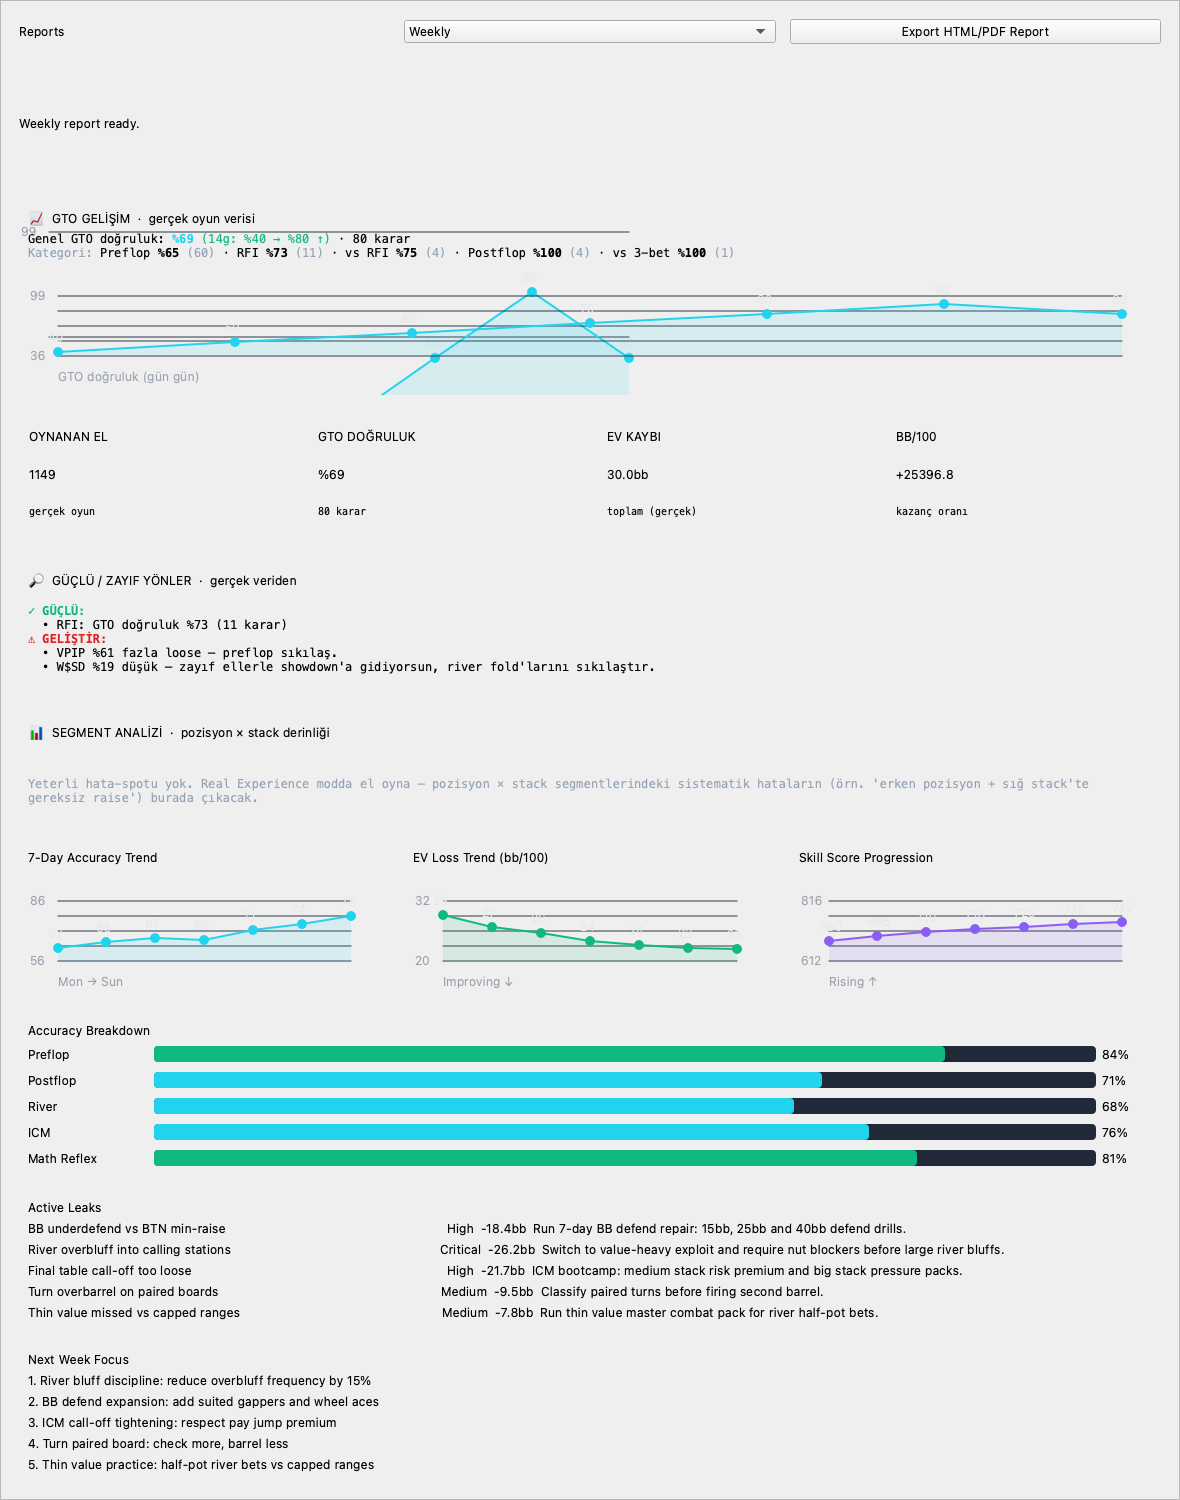
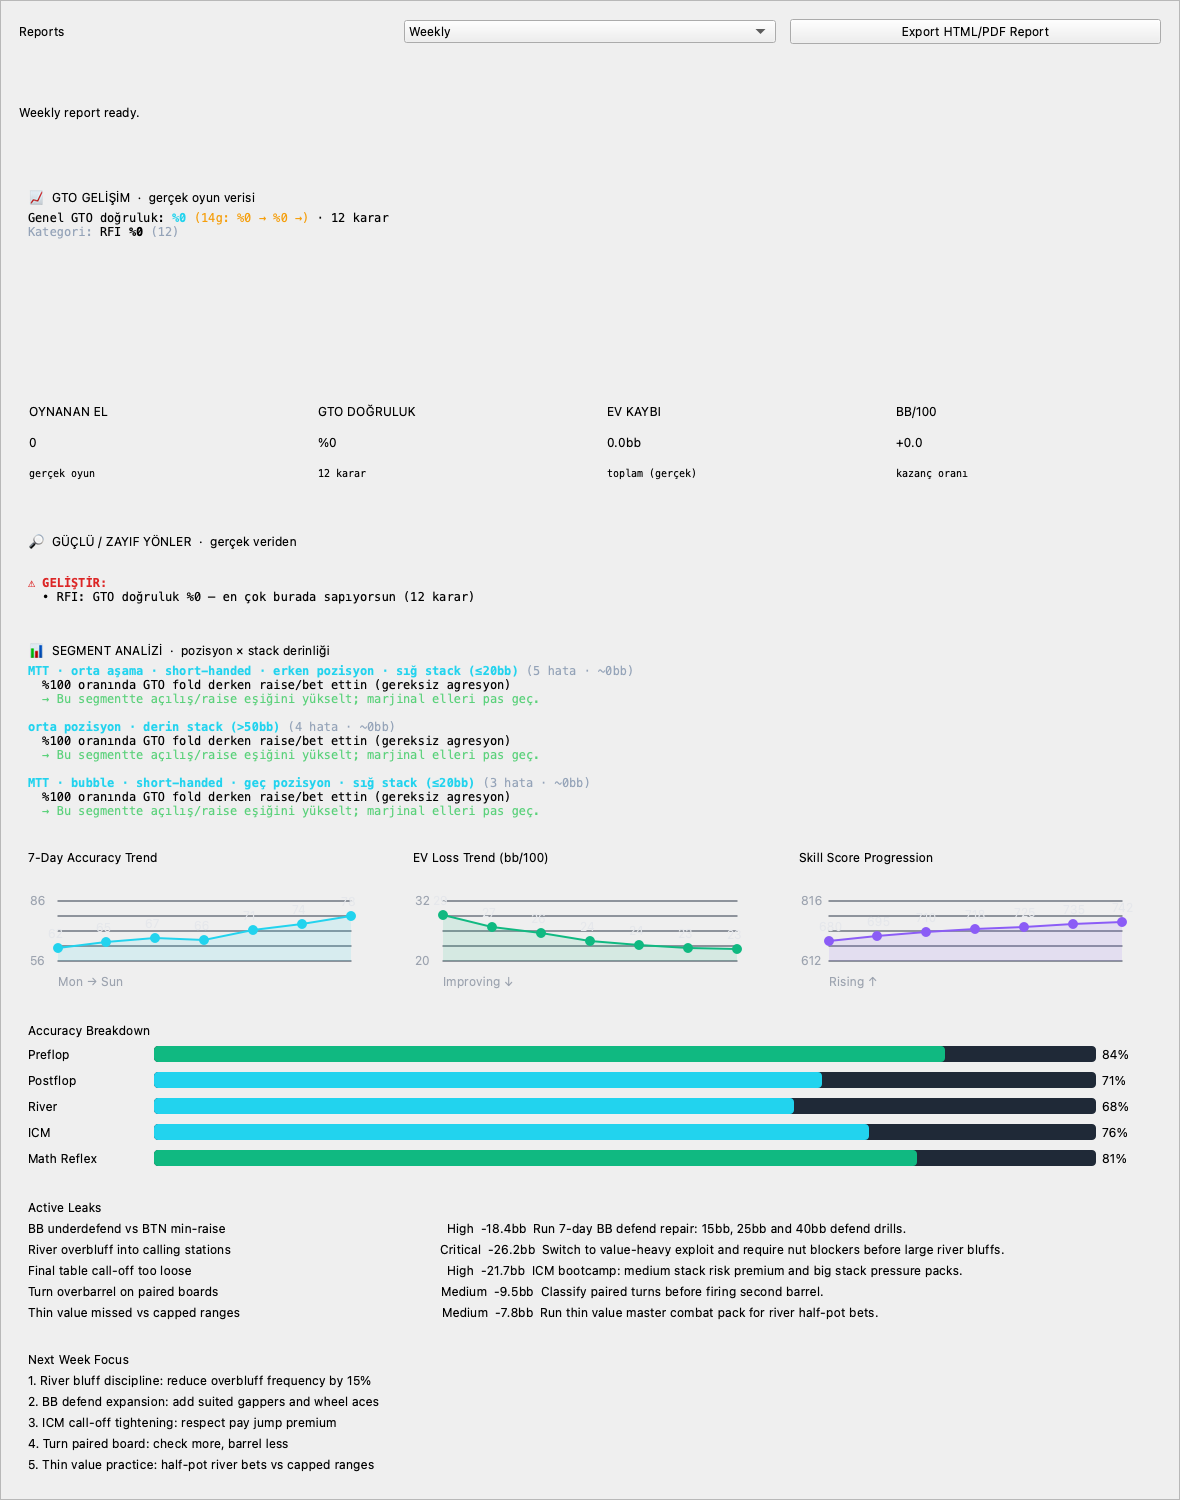
D34: Segment analizi — format × aşama × masa × pozisyon × stack
Segment analizine üç yeni boyut: oyun formatı (cash/MTT/SNG),
turnuva aşaması (erken/orta/geç/bubble/final masa) ve masa boyutu
(HU/short-handed/full-ring). Kullanıcının tam örneği artık gerçek
veriden üretiliyor:

  "MTT · orta aşama · short-handed · erken pozisyon · sığ stack
   (≤20bb): %100 oranında GTO fold derken raise ettin
   → açılış eşiğini yükselt, marjinal elleri pas geç"

- decision_capture.make_snapshot/capture: fmt + stage parametreleri
- play_session: cash/mtt snap'lerine format + _mtt_stage() enjekte
- tournament_simulator: _tourn_stage() (kalan oyuncu oranı + bubble/FT)
- repository.mistake_spots: format/stage kolonları + migration (ALTER)
- get_segmented_insights: 5-boyutlu segment key + akıllı etiket
  (cash/full-ring/bilinmeyen-aşama default'ları gizlenir)
- reports.py: başlık güncellendi, EV-kaybı sadece anlamlıysa gösterilir
  (preflop open'larda yanıltıcı ~0bb yok)
- tests: MTT stage etiketi + cash default-gizleme (18 test geçiyor)

diff --git a/champion_poker_training_os/app/db/repository.py b/champion_poker_training_os/app/db/repository.py
@@ -275,7 +275,14 @@ def _ensure_mistake_table() -> None:
                 board TEXT, hero_cards TEXT, hero_position TEXT,
                 n_active INTEGER, pot_bb REAL, to_call_bb REAL, eff_stack_bb REAL,
                 pot_type TEXT, hero_action TEXT, best_action TEXT,
-                ev_loss REAL, freq_err REAL )""")
+                ev_loss REAL, freq_err REAL,
+                format TEXT, stage TEXT )""")
+        # Eski tablolar için migration (format/stage sonradan eklendi)
+        cols = {r["name"] for r in conn.execute("PRAGMA table_info(mistake_spots)")}
+        if "format" not in cols:
+            conn.execute("ALTER TABLE mistake_spots ADD COLUMN format TEXT")
+        if "stage" not in cols:
+            conn.execute("ALTER TABLE mistake_spots ADD COLUMN stage TEXT")
         conn.commit()
 
 
@@ -285,8 +292,8 @@ def _save_mistake_spot(conn, snap: dict, best: str, ev: float,
         """INSERT INTO mistake_spots
            (category, street, scenario, board, hero_cards, hero_position,
             n_active, pot_bb, to_call_bb, eff_stack_bb, pot_type,
-            hero_action, best_action, ev_loss, freq_err, created_at)
-           VALUES (?,?,?,?,?,?,?,?,?,?,?,?,?,?,?, datetime('now'))""",
+            hero_action, best_action, ev_loss, freq_err, format, stage, created_at)
+           VALUES (?,?,?,?,?,?,?,?,?,?,?,?,?,?,?,?,?, datetime('now'))""",
         (
             cat, snap.get("street", ""), snap.get("scenario", ""),
             snap.get("board", ""),
@@ -295,6 +302,7 @@ def _save_mistake_spot(conn, snap: dict, best: str, ev: float,
             float(snap.get("pot_bb", 0) or 0), float(snap.get("to_call_bb", 0) or 0),
             float(snap.get("eff_stack_bb", 0) or 0), snap.get("pot_type", "SRP"),
             snap.get("hero_action", ""), best, float(ev or 0), float(fe or 0),
+            (snap.get("format") or "").lower(), snap.get("stage") or "",
         ),
     )
 
@@ -385,29 +393,71 @@ def _stack_bucket(eff: float) -> str:
     return "derin stack (>50bb)"
 
 
-def get_segmented_insights(min_sample: int = 3) -> list:
-    """Pozisyon × stack-derinliği segmentlerinde sistematik hatalar.
+def _table_bucket(n: int) -> str:
+    """Oyuncu sayısı → masa formatı. Full-ring (7+) "default" sayılıp
+    etikette gizlenir; HU ve short-handed bilgi taşır."""
+    n = int(n or 2)
+    if n <= 2:
+        return "HU"
+    if n <= 6:
+        return "short-handed"
+    return ""          # full-ring (7+) → etikette gösterme
 
-    "MTT'de short-stack'e düşünce erken pozisyonda marjinal raise" gibi
-    içgörüler — gerçek mistake_spots verisinden. [{segment, n, ev_lost,
-    pattern, tip}] EV-kaybı yüksekten düşüğe. Veri yoksa [].
+
+def _fmt_label(fmt: str) -> str:
+    return {"mtt": "MTT", "sng": "SNG", "cash": ""}.get((fmt or "").lower(), "")
+
+
+def _segment_label(fmt: str, stage: str, table: str,
+                   pos_b: str, stk_b: str) -> str:
+    """Anlamlı boyutları sırayla birleştir: format · aşama · masa · poz · stack.
+    'cash'/full-ring/bilinmeyen-aşama gibi default'lar gizlenir."""
+    parts: list[str] = []
+    fl = _fmt_label(fmt)
+    if fl:
+        parts.append(fl)
+    st = (stage or "").strip()
+    if st and st.lower() not in ("", "unknown", "-", "none"):
+        parts.append(st)
+    if table:
+        parts.append(table)
+    parts.append(pos_b)
+    parts.append(stk_b)
+    return " · ".join(parts)
+
+
+def get_segmented_insights(min_sample: int = 3) -> list:
+    """Format × turnuva-aşaması × masa × pozisyon × stack segmentlerinde
+    sistematik hatalar.
+
+    "MTT'de orta aşamada short-stack'e düşünce erken pozisyonda marjinal
+    raise" gibi içgörüler — gerçek mistake_spots verisinden.
+    [{segment, n, ev_lost, pattern, tip}] EV-kaybı yüksekten düşüğe.
+    Veri yoksa [].
     """
     _ensure_mistake_table()
     with get_connection() as conn:
         try:
             rows = [dict(r) for r in conn.execute(
-                "SELECT hero_position, eff_stack_bb, best_action, hero_action, "
-                "ev_loss, scenario FROM mistake_spots").fetchall()]
+                "SELECT hero_position, eff_stack_bb, n_active, best_action, "
+                "hero_action, ev_loss, scenario, format, stage "
+                "FROM mistake_spots").fetchall()]
         except sqlite3.OperationalError:
             return []
     from collections import defaultdict
-    seg: dict = defaultdict(lambda: {"n": 0, "ev": 0.0, "over_raise": 0, "over_fold": 0})
+    seg: dict = defaultdict(lambda: {"n": 0, "ev": 0.0, "over_raise": 0,
+                                     "over_fold": 0, "label": ""})
     for r in rows:
-        key = (_pos_bucket(r.get("hero_position")),
-               _stack_bucket(float(r.get("eff_stack_bb") or 0)))
+        pos_b = _pos_bucket(r.get("hero_position"))
+        stk_b = _stack_bucket(float(r.get("eff_stack_bb") or 0))
+        tbl = _table_bucket(r.get("n_active"))
+        fmt = r.get("format") or ""
+        stage = r.get("stage") or ""
+        key = (fmt.lower(), stage, tbl, pos_b, stk_b)
         s = seg[key]
         s["n"] += 1
         s["ev"] += float(r.get("ev_loss") or 0)
+        s["label"] = _segment_label(fmt, stage, tbl, pos_b, stk_b)
         ha = (r.get("hero_action") or "").upper()
         ba = (r.get("best_action") or "").upper()
         if ha in ("RAISE", "BET", "ALL_IN") and ba == "FOLD":
@@ -415,7 +465,7 @@ def get_segmented_insights(min_sample: int = 3) -> list:
         elif ha == "FOLD" and ba in ("RAISE", "BET", "CALL", "ALL_IN"):
             s["over_fold"] += 1
     out = []
-    for (pos_b, stk_b), s in seg.items():
+    for key, s in seg.items():
         if s["n"] < min_sample:
             continue
         if s["over_raise"] >= s["over_fold"] and s["over_raise"] > 0:
@@ -430,7 +480,7 @@ def get_segmented_insights(min_sample: int = 3) -> list:
             pattern = "karışık sapmalar"
             tip = "El sonu reveal'da bu segment kararlarını incele."
         out.append({
-            "segment": f"{pos_b} · {stk_b}",
+            "segment": s["label"],
             "n": s["n"], "ev_lost": round(s["ev"], 1),
             "pattern": pattern, "tip": tip,
         })

diff --git a/champion_poker_training_os/tests/test_decision_leaks.py b/champion_poker_training_os/tests/test_decision_leaks.py
@@ -199,3 +199,40 @@ def test_segmented_insights_early_short_overraise(isolated_db):
 
 def test_segmented_insights_empty(isolated_db):
     assert isolated_db.get_segmented_insights() == []
+
+
+def test_segmented_insights_mtt_stage_label(isolated_db):
+    """MTT · aşama · masa boyutu etiket dimensiyonları."""
+    R = isolated_db
+    for _ in range(4):
+        R.record_decision_log([{
+            "available": True, "street": "Preflop", "scenario": "RFI",
+            "fold": 85, "call": 0, "raise": 15, "allin": 0,
+            "equity": 0, "pot_bb": 3, "to_call_bb": 0,
+            "hero_action": "RAISE", "hero_amount": 2.5, "board": "",
+            "hero_combo": "Jd9c", "hero_position": "UTG", "n_active": 6,
+            "eff_stack_bb": 16, "pot_type": "SRP",
+            "format": "mtt", "stage": "orta aşama"}])
+    segs = R.get_segmented_insights()
+    assert segs
+    seg = segs[0]["segment"]
+    # format + aşama + short-handed (6) + erken poz + sığ stack hepsi etikette
+    assert "MTT" in seg and "orta aşama" in seg
+    assert "short-handed" in seg
+    assert "erken pozisyon" in seg and "sığ stack" in seg
+
+
+def test_segmented_insights_cash_hides_defaults(isolated_db):
+    """cash + full-ring (7+) → format/masa token'ları etikette gizlenir."""
+    R = isolated_db
+    for _ in range(4):
+        R.record_decision_log([{
+            "available": True, "street": "Preflop", "scenario": "RFI",
+            "fold": 85, "call": 0, "raise": 15, "allin": 0,
+            "equity": 0, "pot_bb": 3, "to_call_bb": 0,
+            "hero_action": "RAISE", "hero_amount": 2.5, "board": "",
+            "hero_combo": "Jd9c", "hero_position": "UTG", "n_active": 9,
+            "eff_stack_bb": 16, "pot_type": "SRP",
+            "format": "cash", "stage": ""}])
+    seg = R.get_segmented_insights()[0]["segment"]
+    assert seg == "erken pozisyon · sığ stack (≤20bb)"

diff --git a/champion_poker_training_os/app/ui/screens/play_session.py b/champion_poker_training_os/app/ui/screens/play_session.py
@@ -1269,6 +1269,32 @@ class PlaySessionScreen(QWidget):
             pass
         return ctx
 
+    def _mtt_stage(self) -> str:
+        """Turnuva aşaması — kalan oyuncu oranı + bubble yakınlığı.
+
+        cash/sng-dışı veya turnuva yoksa "" döner. Aşamalar segment
+        analizinde 'MTT · orta aşama · ...' etiketine girer.
+        """
+        if self._format == "cash" or not getattr(self, "tournament", None):
+            return ""
+        try:
+            t = self.tournament
+            field = max(int(getattr(t.config, "field_size", 0) or 0), 1)
+            left = int(getattr(t, "players_remaining", field) or field)
+            paid = int(getattr(t.config, "paid_places", 0) or 0)
+            if left <= max(1, min(9, paid)):
+                return "final masa"
+            if paid and left <= paid + max(2, int(0.05 * field)):
+                return "bubble"
+            frac = left / field
+            if frac > 0.66:
+                return "erken aşama"
+            if frac > 0.33:
+                return "orta aşama"
+            return "geç aşama"
+        except Exception:
+            return ""
+
     def _capture_decision(self, hand, gto, to_call) -> None:
         """Hero'nun bu karar noktasındaki GTO-optimal dağılımını sakla.
 
@@ -1297,6 +1323,7 @@ class PlaySessionScreen(QWidget):
             "pot_bb": float(getattr(hand, "pot", 0) or 0),
             "to_call_bb": float(to_call or 0),
             "hero_action": None, "hero_amount": None,
+            "format": self._format, "stage": self._mtt_stage(),
             **self._spot_context(hand, hand.hero_idx, bb=1.0),
         }
         sz = (self.state.live_gto or {}).get("sizing") if (self.state and self.state.live_gto) else None
@@ -1338,6 +1365,7 @@ class PlaySessionScreen(QWidget):
             "equity": getattr(gto, "equity", 0) if gto else 0,
             "pot_bb": float(getattr(hand, "pot", 0) or 0) / max(bb, 1),
             "to_call_bb": float(to_call or 0) / max(bb, 1),
+            "format": self._format, "stage": self._mtt_stage(),
             **self._spot_context(hand, hand.hero_idx, bb=bb),
             "hero_action": None, "hero_amount": None, "_bb": bb,
         }

diff --git a/champion_poker_training_os/app/ui/screens/tournament_simulator.py b/champion_poker_training_os/app/ui/screens/tournament_simulator.py
@@ -1008,6 +1008,31 @@ class TournamentSimulatorScreen(QWidget):
     # (Legacy _opponent_widget / _next_actor_idx removed — LivePokerTable
     # now renders all opponent state directly.)
 
+    def _tourn_stage(self) -> str:
+        """Turnuva aşaması — kalan oyuncu oranı + bubble/FT yakınlığı.
+
+        Segment analizinde 'MTT · orta aşama · ...' etiketine girer.
+        """
+        t = getattr(self, "tournament", None)
+        if not t:
+            return ""
+        try:
+            field = max(int(getattr(t.config, "field_size", 0) or 0), 1)
+            left = int(getattr(t.state, "players_left", field) or field)
+            paid = int(getattr(t.config, "paid_places", 0) or 0)
+            if left <= max(1, min(9, paid or 9)):
+                return "final masa"
+            if paid and left <= paid + max(2, int(0.05 * field)):
+                return "bubble"
+            frac = left / field
+            if frac > 0.66:
+                return "erken aşama"
+            if frac > 0.33:
+                return "orta aşama"
+            return "geç aşama"
+        except Exception:
+            return ""
+
     def _update_action_buttons(self):
         """Show only legal actions. We HIDE-only (never setEnabled) so Qt's
         stylesheet engine can't get stuck in the disabled palette — see the
@@ -1075,7 +1100,8 @@ class TournamentSimulatorScreen(QWidget):
         _st = getattr(self, "state", None)
         _real_xp = bool(getattr(_st, "real_experience", False))
         _sz = _st.live_gto.get("sizing") if (_st and getattr(_st, "live_gto", None)) else None
-        self._recorder.capture(hand, hero_idx, gto, bb=bb, sizing=_sz)
+        self._recorder.capture(hand, hero_idx, gto, bb=bb, sizing=_sz,
+                               fmt="mtt", stage=self._tourn_stage())
 
         def lbl(base: str, atype) -> str:
             # Oyun sırasında ASLA GTO cevabı/%'si gösterme (her iki modda).

diff --git a/champion_poker_training_os/app/poker/decision_capture.py b/champion_poker_training_os/app/poker/decision_capture.py
@@ -35,8 +35,13 @@ def preflop_pot_type(hand) -> str:
 
 
 def make_snapshot(hand, hero_idx: int, gto, bb: float = 1.0,
-                  sizing: Optional[dict] = None) -> dict:
-    """Bir karar noktasının snapshot dict'ini üret (reveal/grade/persist şeması)."""
+                  sizing: Optional[dict] = None,
+                  fmt: str = "", stage: str = "") -> dict:
+    """Bir karar noktasının snapshot dict'ini üret (reveal/grade/persist şeması).
+
+    ``fmt`` (cash/mtt/sng) ve ``stage`` (turnuva aşaması) segment analizinde
+    'MTT · orta aşama · ...' içgörüsü için saklanır.
+    """
     _bb = max(float(bb), 1e-9)
     try:
         to_call = float(hand.to_call(hero_idx))
@@ -97,6 +102,7 @@ def make_snapshot(hand, hero_idx: int, gto, bb: float = 1.0,
         "villain_position": villain_position,
         "eff_stack_bb": eff_stack_bb, "in_position": in_position,
         "pot_type": pot_type,
+        "format": fmt, "stage": stage,
         "hero_action": None, "hero_amount": None, "_bb": _bb,
     }
     if sizing:
@@ -117,7 +123,8 @@ class DecisionRecorder:
         self._keys = set()
 
     def capture(self, hand, hero_idx: int, gto, bb: float = 1.0,
-                sizing: Optional[dict] = None) -> None:
+                sizing: Optional[dict] = None,
+                fmt: str = "", stage: str = "") -> None:
         _bb = max(float(bb), 1e-9)
         try:
             to_call = float(hand.to_call(hero_idx))
@@ -127,7 +134,7 @@ class DecisionRecorder:
         if key in self._keys:
             return
         self._keys.add(key)
-        self.log.append(make_snapshot(hand, hero_idx, gto, bb, sizing))
+        self.log.append(make_snapshot(hand, hero_idx, gto, bb, sizing, fmt, stage))
 
     def attach_hero(self, action_type, amount, bb: float = 1.0) -> None:
         if not self.log:

diff --git a/champion_poker_training_os/app/ui/screens/reports.py b/champion_poker_training_os/app/ui/screens/reports.py
@@ -177,7 +177,7 @@ class ReportsScreen(QWidget):
         self.segment_frame = QFrame()
         self.segment_frame.setObjectName("Card")
         self._segment_layout = QVBoxLayout(self.segment_frame)
-        seg_title = QLabel("📊  SEGMENT ANALİZİ  ·  pozisyon × stack derinliği")
+        seg_title = QLabel("📊  SEGMENT ANALİZİ  ·  format × aşama × masa × pozisyon × stack")
         seg_title.setObjectName("SectionTitle")
         self._segment_layout.addWidget(seg_title)
         self.segment_body = QLabel("")
@@ -365,10 +365,13 @@ class ReportsScreen(QWidget):
         else:
             shtml = []
             for s in segments[:5]:
+                # EV-kaybı sadece anlamlıysa göster (preflop open'larda EV proxy yok)
+                meta = f"{s['n']} hata"
+                if s["ev_lost"] >= 0.5:
+                    meta += f" · ~{s['ev_lost']:.0f}bb kayıp"
                 shtml.append(
                     f"<b style='color:#22D3EE'>{s['segment']}</b> "
-                    f"<span style='color:#94A3B8'>({s['n']} hata · "
-                    f"~{s['ev_lost']:.0f}bb)</span><br>"
+                    f"<span style='color:#94A3B8'>({meta})</span><br>"
                     f"&nbsp;&nbsp;{s['pattern']}<br>"
                     f"&nbsp;&nbsp;<span style='color:#5ad17a'>→ {s['tip']}</span>")
             self.segment_body.setText("<br><br>".join(shtml))